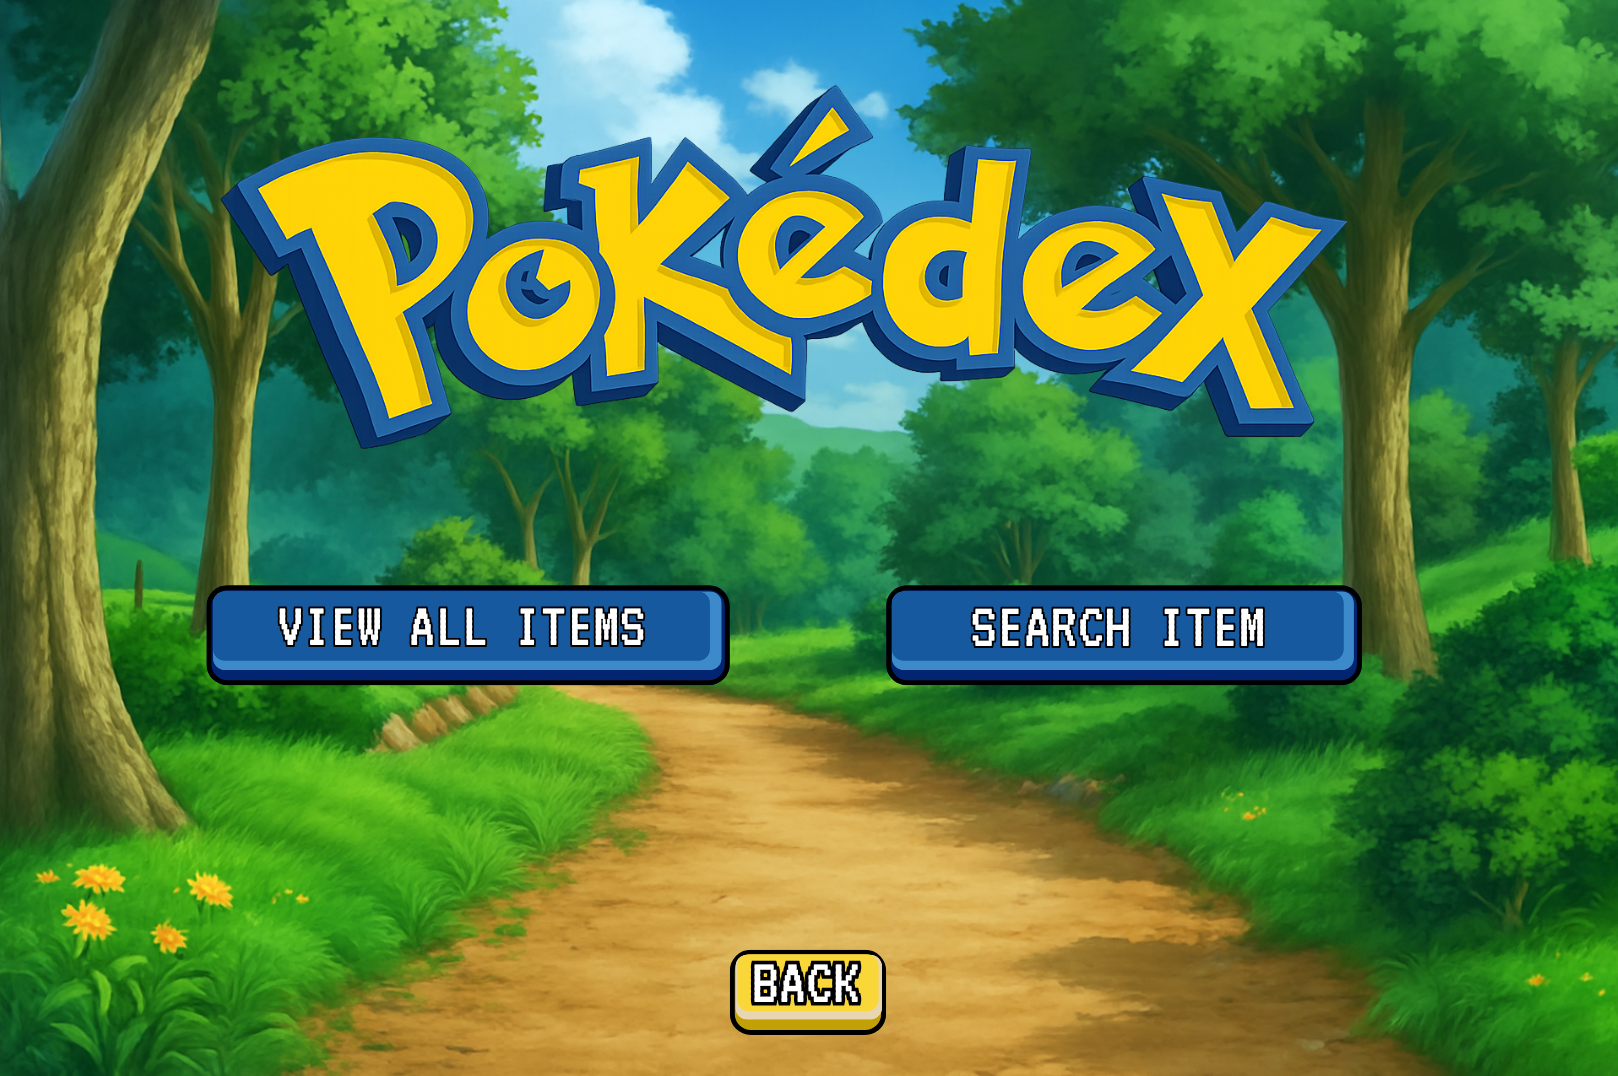
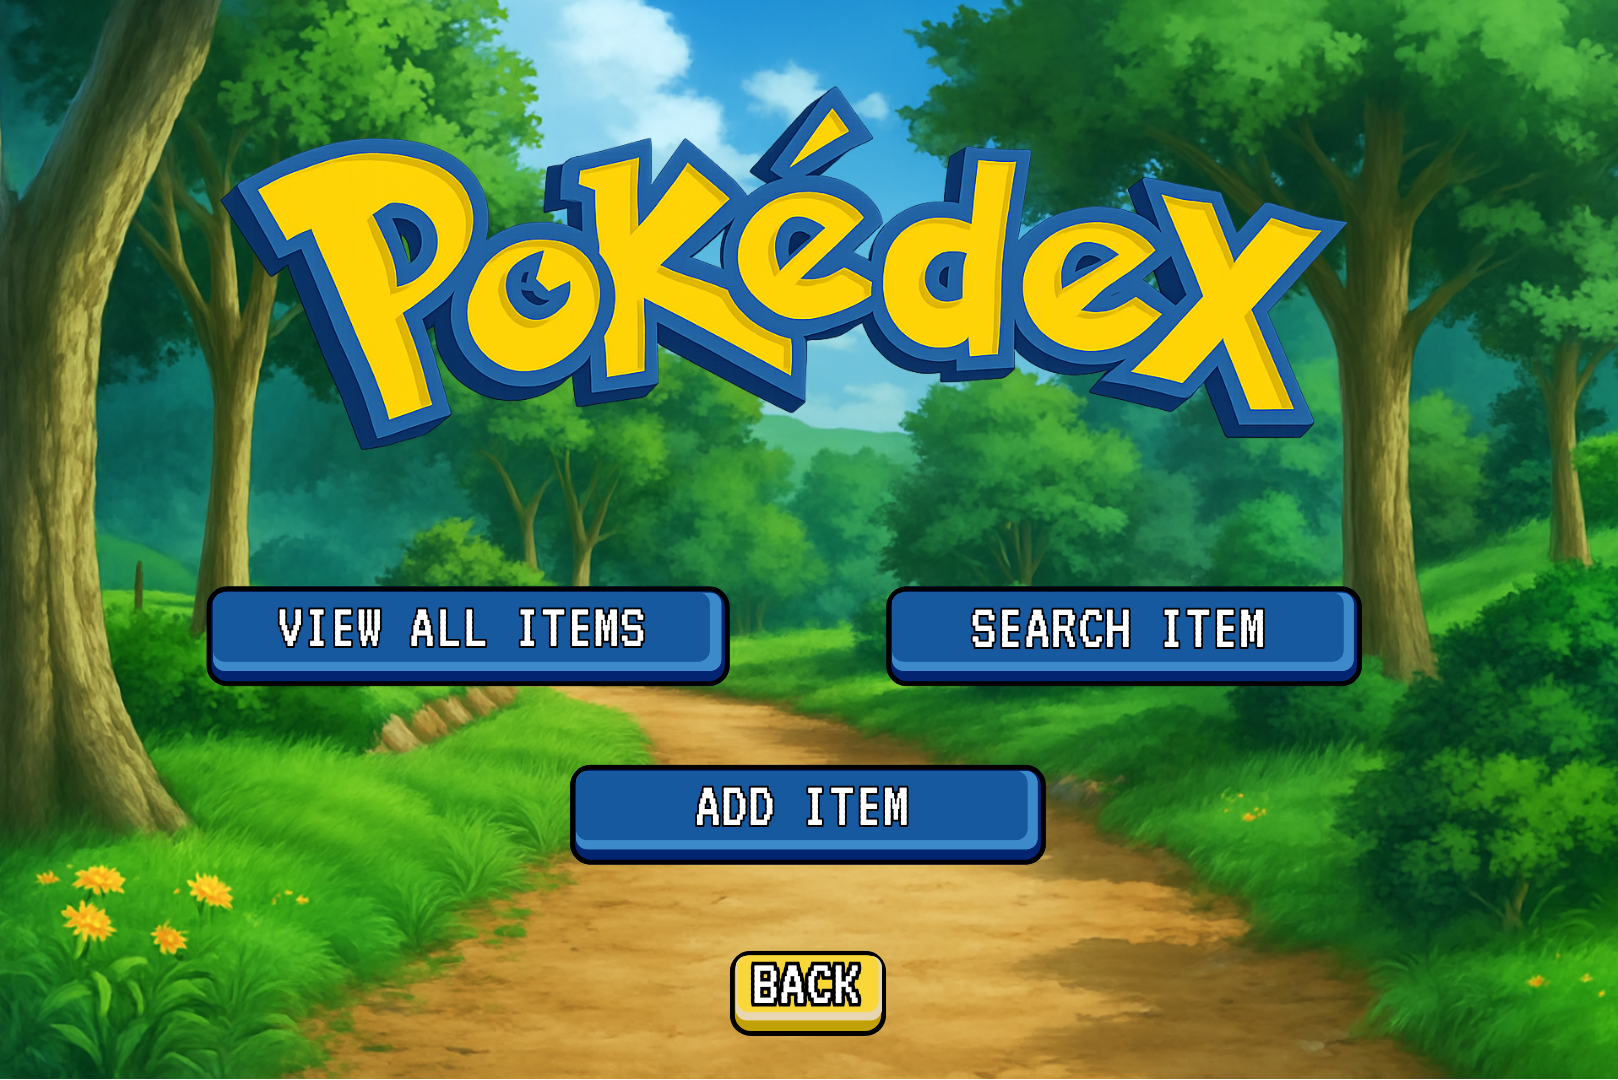
Expand item and trainer data handling

diff --git a/src/pokedex/controllers/ItemMenuController.java b/src/pokedex/controllers/ItemMenuController.java
@@ -6,12 +6,15 @@ import javafx.fxml.FXMLLoader;
 import javafx.scene.Node;
 import javafx.scene.Parent;
 import javafx.scene.Scene;
-import javafx.scene.control.Button;
+import javafx.scene.control.*;
+import javafx.scene.layout.GridPane;
 import javafx.stage.Stage;
+import pokedex.JsonManager;
 import pokedex.managers.ItemManager;
 import pokedex.managers.MoveManager;
 import pokedex.managers.PokedexManager;
 import pokedex.managers.TrainerManager;
+import pokedex.models.Item;
 
 import java.io.IOException;
 
@@ -70,6 +73,90 @@ private void handleSearch(ActionEvent event) {
         e.printStackTrace();
     }
 }
+    private void showAlert(String message) {
+        Alert alert = new Alert(Alert.AlertType.INFORMATION);
+        alert.setTitle("Notice");
+        alert.setHeaderText(null);
+        alert.setContentText(message);
+        alert.showAndWait();
+    }
+
+    @FXML
+    private void handleAddItem(ActionEvent event) {
+        Dialog<Item> dialog = new Dialog<>();
+        dialog.setTitle("Add New Item");
+        dialog.setHeaderText("Enter item details");
+
+        // Set the button types
+        ButtonType addButtonType = new ButtonType("Add", ButtonBar.ButtonData.OK_DONE);
+        dialog.getDialogPane().getButtonTypes().addAll(addButtonType, ButtonType.CANCEL);
+
+        // Create input fields
+        GridPane grid = new GridPane();
+        grid.setHgap(10);
+        grid.setVgap(10);
+
+        TextField nameField = new TextField();
+        TextField categoryField = new TextField();
+        TextField descriptionField = new TextField();
+        TextField effectsField = new TextField();
+        TextField minPriceField = new TextField();
+        TextField maxPriceField = new TextField();
+        TextField sellingPriceField = new TextField();
+
+        grid.add(new Label("Name:"), 0, 0); grid.add(nameField, 1, 0);
+        grid.add(new Label("Category:"), 0, 1); grid.add(categoryField, 1, 1);
+        grid.add(new Label("Description:"), 0, 2); grid.add(descriptionField, 1, 2);
+        grid.add(new Label("Effects:"), 0, 3); grid.add(effectsField, 1, 3);
+        grid.add(new Label("Min Price:"), 0, 4); grid.add(minPriceField, 1, 4);
+        grid.add(new Label("Max Price:"), 0, 5); grid.add(maxPriceField, 1, 5);
+        grid.add(new Label("Selling Price:"), 0, 6); grid.add(sellingPriceField, 1, 6);
+
+        dialog.getDialogPane().setContent(grid);
+
+        // Convert result to Item when "Add" is clicked
+        dialog.setResultConverter(dialogButton -> {
+            if (dialogButton == addButtonType) {
+                try {
+                    String name = nameField.getText().trim();
+                    String category = categoryField.getText().trim();
+                    String description = descriptionField.getText().trim();
+                    String effects = effectsField.getText().trim();
+                    String minText = minPriceField.getText().trim();
+                    String maxText = maxPriceField.getText().trim();
+                    String sellText = sellingPriceField.getText().trim();
+
+                    if (name.isEmpty() || category.isEmpty() || description.isEmpty() || effects.isEmpty() || sellText.isEmpty()) {
+                        showAlert("All required fields must be filled.");
+                        return null;
+                    }
+
+                    Integer min = minText.isEmpty() ? null : Integer.parseInt(minText);
+                    Integer max = maxText.isEmpty() ? null : Integer.parseInt(maxText);
+                    int sell = Integer.parseInt(sellText);
+
+                    return new Item(name, category, description, effects, min, max, sell);
+
+                } catch (NumberFormatException e) {
+                    showAlert("Invalid number input. Please check price fields.");
+                    return null;
+                }
+            }
+            return null;
+        });
+
+        dialog.showAndWait().ifPresent(newItem -> {
+            if (!itemManager.hasItemWithName(newItem.getName())) {
+                itemManager.addItem(newItem);
+                JsonManager.saveItems(itemManager.getAllItems()); // <-- Save immediately
+                showAlert("Item added successfully!");
+            } else {
+                showAlert("Item with this name already exists.");
+            }
+        });
+
+    }
+
 
 
     @FXML

diff --git a/src/pokedex/models/Trainer.java b/src/pokedex/models/Trainer.java
@@ -99,7 +99,7 @@ public class Trainer implements Serializable {
 
     // ── Core Item Logic ──────────────────────────────────────────────────────
 
-    /** Buys an item, enforcing money and bag limits. */
+    /** Buys an item, enforcing money and bag limits. Also gives 1 Rare Candy if within limits. */
     public String buyItem(Item item) {
         String nm = item.getName();
         Integer priceObj = item.getMinBuyingPrice();
@@ -114,7 +114,9 @@ public class Trainer implements Serializable {
 
         int totalCount = itemBag.values().stream().mapToInt(b -> b.quantity).sum();
 
-        if (!itemBag.containsKey(nm) && itemBag.size() >= 10) {
+        // Check if adding the bought item would exceed unique or total limits
+        boolean isNewItem = !itemBag.containsKey(nm);
+        if (isNewItem && itemBag.size() >= 10) {
             return "⚠ Max 10 unique items.";
         }
 
@@ -122,11 +124,26 @@ public class Trainer implements Serializable {
             return "⚠ Max 50 items total.";
         }
 
+        // Deduct money and add the bought item
         money -= price;
         itemBag.putIfAbsent(nm, new BagItem(item, 0));
         itemBag.get(nm).quantity++;
+
+        // 🎁 Attempt to give 1 Rare Candy
+        Item rareCandy = ItemManager.getInstance().getItemByName("Rare Candy");
+        if (rareCandy != null) {
+            boolean newCandy = !itemBag.containsKey("Rare Candy");
+            if ((newCandy && itemBag.size() >= 10) || (totalCount + 1 > 50)) {
+                return "SUCCESS: Bought " + nm + " for ₱" + price + "\n⚠ Bonus Rare Candy could not be given (item limit reached).";
+            }
+            itemBag.putIfAbsent("Rare Candy", new BagItem(rareCandy, 0));
+            itemBag.get("Rare Candy").quantity++;
+            return "SUCCESS: Bought " + nm + " for ₱" + price + "\n🎁 Bonus: Received 1 Rare Candy!";
+        }
+
         return "SUCCESS: Bought " + nm + " for ₱" + price;
     }
+
 
     /** Sells one item, refunding 50% of its base price. */
     public void sellItem(String itemName) {

diff --git a/src/pokedex/managers/ItemManager.java b/src/pokedex/managers/ItemManager.java
@@ -1,13 +1,24 @@
 package pokedex.managers;
 
 import pokedex.models.Item;
+import pokedex.models.Move;
+
 import java.util.ArrayList;
 import java.util.List;
 
 public class ItemManager {
+    private static ItemManager instance;
     private List<Item> items = new ArrayList<>();
+    public List <Item> getAllItems()
+    {
+        return List.copyOf(items);
+    }
+    public void setAllItems(List<Item> loaded) {
+        items.clear();
+        items.addAll(loaded);
 
-    public ItemManager() {
+    }
+    private ItemManager() {
         //Initialize with some default items
         //Vitamins and candies
         items.add(new Item("HP Up", "Vitamin", "A nutritious drink for Pokémon.", "+10 HP EVs",10000, 10000, 5000));
@@ -45,6 +56,12 @@ public class ItemManager {
         items.add(new Item("Ice Stone", "Evolution Stone", "A stone that is cold to the touch.", "Evolves Pokémon like Alolan Vulpix, Galarian Darumaka, Eevee (into Glaceon).", 3000, 5000, 1500));
         // Ice Stone: Spec says ₱3000–₱5000, using max ₱5000 for standardization
     }
+    public static ItemManager getInstance() {
+        if (instance == null) {
+            instance = new ItemManager();
+        }
+        return instance;
+    }
 
     public void viewAllItems() {
         if (items.isEmpty()) {
@@ -75,9 +92,6 @@ public class ItemManager {
         }
     }
 
-    public List<Item> getAllItems() {
-        return items;
-    }
     public void searchItemByEffect(String effect) {
         List<Item> found = new ArrayList<>();
         String keyword = effect.toLowerCase();
@@ -169,4 +183,10 @@ public class ItemManager {
         }
         return false;
     }
+    public void addItem(Item item) {
+        if (item != null && !hasItemWithName(item.getName())) {
+            items.add(item);
+        }
+    }
+
 }

diff --git a/src/pokedex/JsonManager.java b/src/pokedex/JsonManager.java
@@ -7,15 +7,16 @@ import com.google.gson.JsonSerializer;
 import com.google.gson.JsonPrimitive;
 import com.google.gson.JsonParseException;
 import com.google.gson.reflect.TypeToken;
+import pokedex.models.Item;
 import pokedex.models.Move;
 import pokedex.models.Pokemon;
 import pokedex.models.Trainer;
 
-import java.io.FileReader;
-import java.io.FileWriter;
-import java.io.IOException;
+import java.io.*;
 import java.lang.reflect.Type;
 import java.time.LocalDate;
+import java.util.ArrayList;
+import java.util.Arrays;
 import java.util.List;
 
 public class JsonManager {
@@ -98,6 +99,26 @@ public class JsonManager {
             return null;
         }
     }
+    public static void saveItems(List<Item> items) {
+        try (Writer writer = new FileWriter("items.json")) {
+            gson.toJson(items, writer); // use the shared gson instance
+            System.out.println("✅ Items saved to items.json");
+        } catch (IOException e) {
+            System.err.println("❌ Error saving items: " + e.getMessage());
+        }
+    }
+
+    public static List<Item> loadItems() {
+        try (Reader reader = new FileReader("items.json")) {
+            Gson gson = new Gson();
+            Item[] items = gson.fromJson(reader, Item[].class);
+            return items != null ? new ArrayList<>(Arrays.asList(items)) : new ArrayList<>();
+        } catch (IOException e) {
+            return new ArrayList<>(); // return empty if file doesn't exist
+        }
+    }
+
+
 
 
 }

diff --git a/src/pokedex/app/Main.java b/src/pokedex/app/Main.java
@@ -11,6 +11,7 @@ import pokedex.managers.ItemManager;
 import pokedex.managers.MoveManager;
 import pokedex.managers.PokedexManager;
 import pokedex.managers.TrainerManager;
+import pokedex.models.Item;
 import pokedex.models.Move;
 import pokedex.models.Pokemon;
 import pokedex.models.Trainer;
@@ -27,7 +28,7 @@ public class Main extends Application {
         // Instantiate managers
         PokedexManager pokedexManager = PokedexManager.getInstance();
         MoveManager moveManager = MoveManager.getInstance();
-        ItemManager itemManager = new ItemManager();
+        ItemManager itemManager = ItemManager.getInstance();
         TrainerManager trainerManager = new TrainerManager();
 
         // Load from JSON
@@ -39,6 +40,12 @@ public class Main extends Application {
 
         List<Move> savedMoves = JsonManager.loadMoves();
         if (savedMoves != null) moveManager.setAllMoves(savedMoves);
+
+        List<Item> savedItems = JsonManager.loadItems();
+        if (savedItems != null && !savedItems.isEmpty()) {
+            itemManager.setAllItems(savedItems);
+        }
+
 
         // 💡 Use FXMLLoader with controller factory
         FXMLLoader loader = new FXMLLoader(getClass().getResource("/fxml/StartScreen.fxml"));

diff --git a/src/pokedex/managers/PokedexManager.java b/src/pokedex/managers/PokedexManager.java
@@ -1,5 +1,6 @@
 package pokedex.managers;
 
+import pokedex.JsonManager;
 import pokedex.models.Pokemon;
 import java.util.ArrayList;
 import java.util.List;
@@ -11,7 +12,11 @@ public class PokedexManager {
     private static PokedexManager instance;
 
     // 🔹 Private constructor to prevent external instantiation
-    private PokedexManager() {}
+    private PokedexManager() {
+        pokedex = JsonManager.loadPokemons(); // load from file
+        if (pokedex == null) pokedex = new ArrayList<>(); // fallback if file doesn't exist
+    }
+
 
     // 🔹 Public method to access the single instance
     public static PokedexManager getInstance() {

diff --git a/src/pokedex/ui/Menu.java b/src/pokedex/ui/Menu.java
@@ -249,10 +249,11 @@ public class Menu {
                 case 12:
                     // 1) save before exit
                     System.out.println("Saving trainers to disk...");
+
                     JsonManager.saveTrainers(trainerManager.getAllTrainers());
                     JsonManager.savePokemons(pokedexManager.getAllPokemon());
                     JsonManager.saveMoves(moveManager.getAllMoves());
-
+                    JsonManager.saveItems(itemManager.getAllItems());
                     System.out.println("Data saved. Exiting Pokédex. Goodbye!");
                     break;
 
